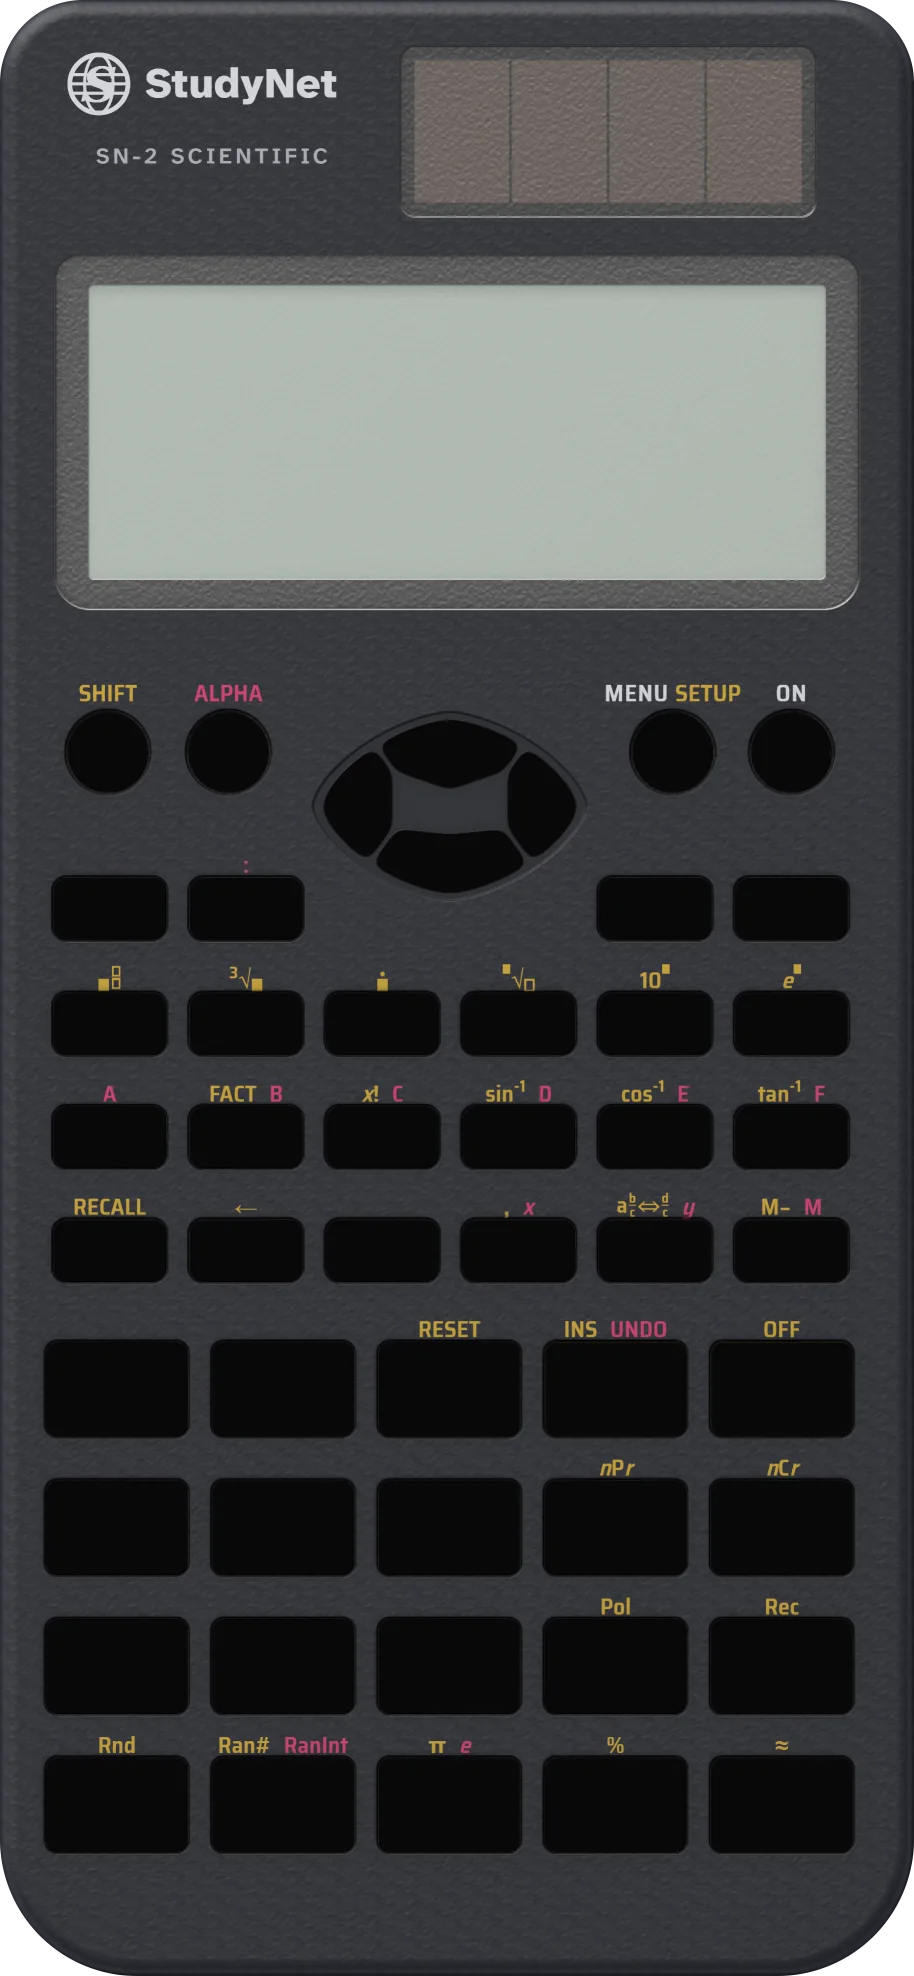
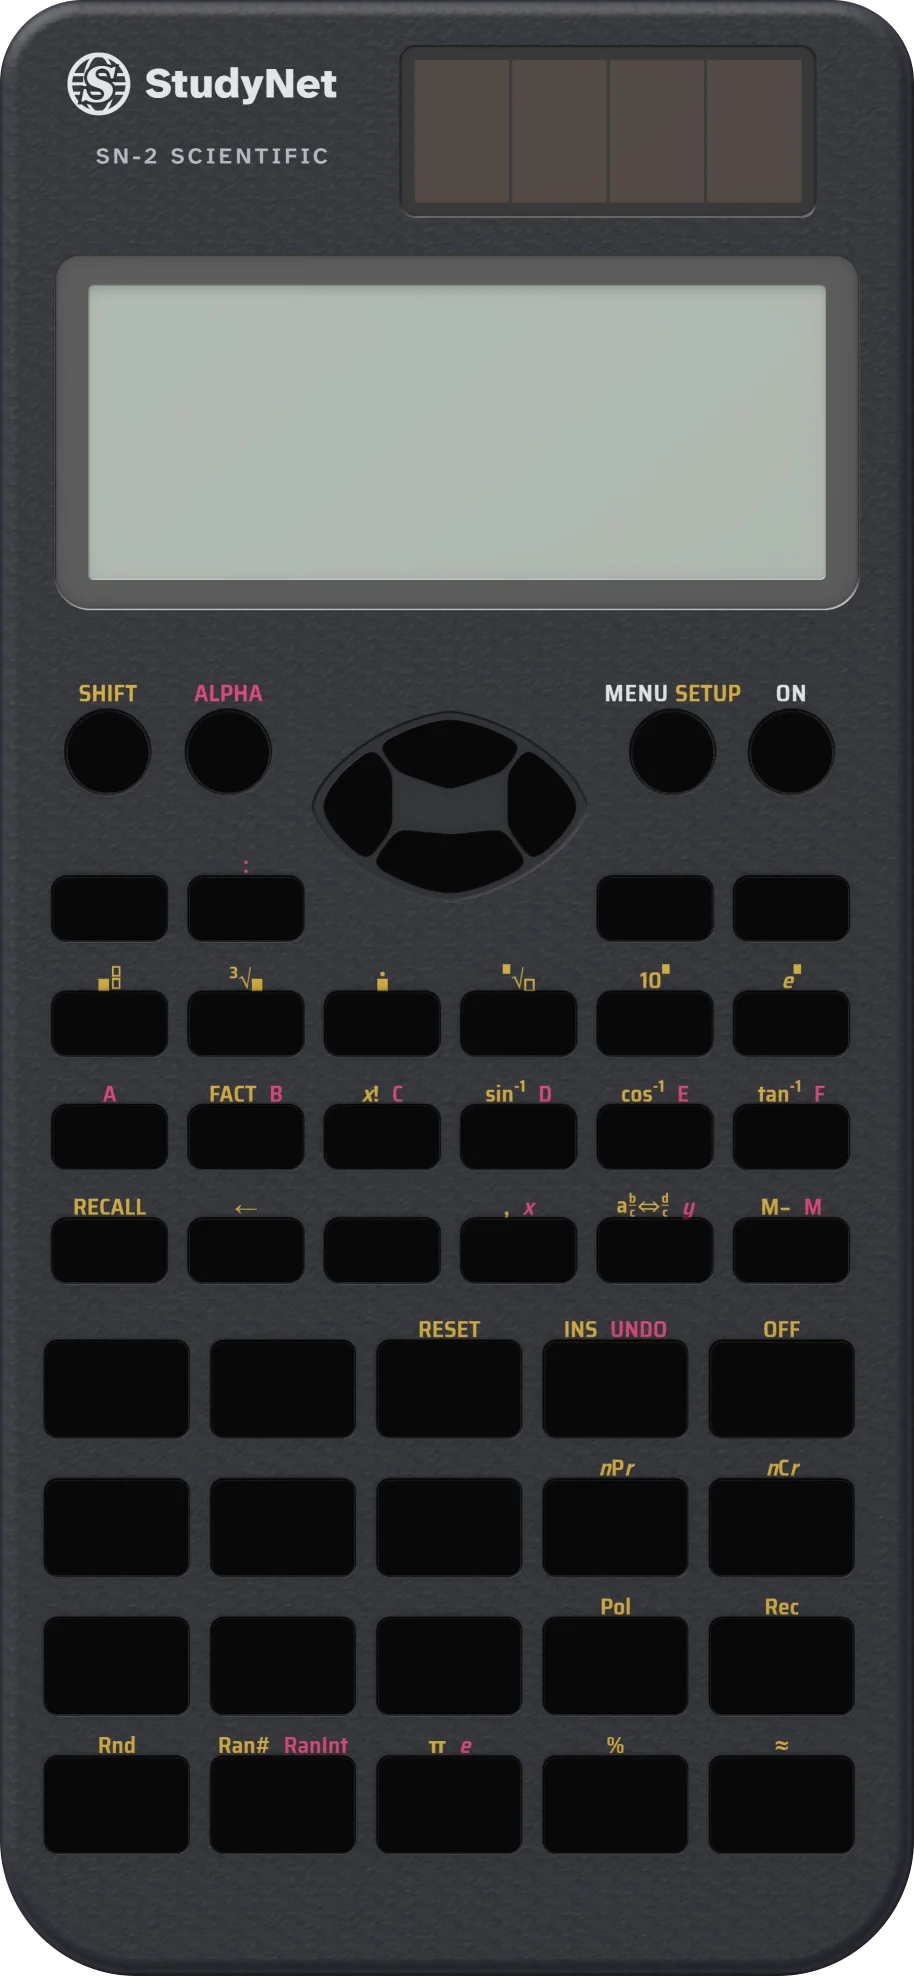
Calculator fixes: minus sign after (, ALPHA E, indicators, solar grain
- The subtraction key works as a minus sign where a number is expected:
  (-9)x(-1), -9x-1 and 2x-3 no longer give Syntax ERROR.
- ALPHA then cos gives the variable E again (Line-mode x10^n had the same
  token, so E showed and worked as x10).
- Indicators sit in their own row at the top of the LCD glass and are
  hidden on error screens.
- Re-baked: smooth solar panel and display window (texture was subtracted
  twice there), logo S outline restored.

Changed region(s): [[0.4289, 0.0309, 0.8884, 0.1235], [0.0919, 0.0309, 0.1225, 0.0617]]

diff --git a/calc.js b/calc.js
@@ -523,7 +523,7 @@ function isDigitT(t) { return t !== undefined && t.length === 1 && t >= '0' && t
 function isStatTok(t) { return t !== undefined && t.charAt(0) === '§'; }
 function startsOperand(t) {
   if (t === undefined) return false;
-  if (isDigitT(t) || t === '.' || t === 'E[' || t === 'E' || t === '(' || t === 'neg') return true;
+  if (isDigitT(t) || t === '.' || t === 'E[' || t === 'ᴇ' || t === '(' || t === 'neg') return true;
   if (FUN1[t] || (SLOTS[t] && t !== '^[' && t !== 'RD[')) return true;
   if (t === 'π' || t === 'e' || t === 'Ans' || t === 'Ran#' || VARN[t] || isStatTok(t)) return true;
   return false;
@@ -556,7 +556,7 @@ function pEst() {
   return v;
 }
 function pNeg() {
-  if (pk() === 'neg') { P.p++; var v = pNeg(), r = neg(v); return v.g ? G(r) : r; }
+  if (pk() === 'neg' || pk() === '−') { P.p++; var v = pNeg(), r = neg(v); return v.g ? G(r) : r; }
   return pLfrac();
 }
 function pLfrac() {
@@ -628,7 +628,7 @@ function pNum() {
   }
   var t2 = pk();
   if (t2 === 'E[') { P.p++; deeper(); var e = pSlot(']'); P.depth--; var ei = intOf(e); if (ei === null) merr(); v = mul(v, vten(e)); }
-  else if (t2 === 'E') {
+  else if (t2 === 'ᴇ') {
     P.p++; var sg = 1n, ds = '';
     if (pk() === 'neg' || pk() === '−') { P.p++; sg = -1n; }
     while (isDigitT(pk())) { ds += pk(); P.p++; }
@@ -649,7 +649,7 @@ function pNum() {
 function pAtom() {
   var t = pk();
   if (t === undefined) serr();
-  if (isDigitT(t) || t === '.' || t === 'E[' || t === 'E') return pNum();
+  if (isDigitT(t) || t === '.' || t === 'E[' || t === 'ᴇ') return pNum();
   P.p++;
   var a, b, c, v;
   if (t === '(') { deeper(); v = pExpr(); closeP(); return v; }
@@ -755,7 +755,7 @@ var TXT = {
   'π': '<i class="czpi">π</i>', 'e': '<i class="cze">e</i>', 'x': '<i class="czv">x</i>', 'y': '<i class="czv">y</i>',
   'sin⁻¹(': 'sin' + sup('-1') + '(', 'cos⁻¹(': 'cos' + sup('-1') + '(', 'tan⁻¹(': 'tan' + sup('-1') + '(',
   'sinh⁻¹(': 'sinh' + sup('-1') + '(', 'cosh⁻¹(': 'cosh' + sup('-1') + '(', 'tanh⁻¹(': 'tanh' + sup('-1') + '(',
-  '³√(': sup('3') + '√(', 'ˣ√(': sup('x') + '√(', 'e^(': '<i class="cze">e</i>^(', 'E': '<span class="czx10">×10</span>',
+  '³√(': sup('3') + '√(', 'ˣ√(': sup('x') + '√(', 'e^(': '<i class="cze">e</i>^(', 'ᴇ': '<span class="czx10">×10</span>',
   '⌟': '<span class="czfl"></span>', 'STO': '→', 'M+': 'M+', 'M−': 'M−', '§x̂': 'x̂', 'x̂': 'x̂', 'ŷ': 'ŷ', 'x̂₁': 'x̂<span class="czsb">1</span>', 'x̂₂': 'x̂<span class="czsb">2</span>',
   '&': '&amp;', '<': '&lt;'
 };
@@ -907,7 +907,7 @@ function tokFor(a, line) {
     case 'abs': return M ? [['A[', ']'], 1] : [['Abs('], 0];
     case 'ten': return M ? [['TEN[', ']'], 1] : [['10^('], 0];
     case 'epow': return M ? [['EXP[', ']'], 1] : [['e^('], 0];
-    case 'exp10': return M ? [['E[', ']'], 1] : [['E'], 0];
+    case 'exp10': return M ? [['E[', ']'], 1] : [['ᴇ'], 0];
     case 'recur': return M ? [['RD[', ']'], 1] : null;
   }
   var simple = {
@@ -1681,7 +1681,7 @@ function render() {
     case 'calc': body = calcBody(); break;
     case 'menu': body = menuBody(); st = ''; break;
     case 'mainmenu': body = mainMenuBody(); st = ''; break;
-    case 'error': body = linesBody([esc(S.err.m), '', '[AC]&nbsp;&nbsp;:Cancel', '[◄][►]:Goto']); break;
+    case 'error': body = linesBody([esc(S.err.m), '', '[AC]&nbsp;&nbsp;:Cancel', '[◄][►]:Goto']); st = ''; break;
     case 'recall': body = recallBody(); st = ''; break;
     case 'contrast': body = linesBody(['Contrast', '', '<span>Light</span><span class="czrt2">Dark</span>', '&nbsp;[◄]<span class="czrt2">[►]</span>']); st = ''; break;
     case 'fmtsel': body = linesBody([{ fix: 'Fix 0~9?', sci: 'Sci 0~9?', norm: 'Norm 1~2?' }[S.fmtsel]]); st = ''; break;
@@ -1911,6 +1911,7 @@ if (typeof document !== 'undefined') (function () {
     var r = render();
     scr.className = 'czscr ' + r.cls + (S.on ? '' : ' czoff') + (SET.font === 'small' ? ' czfsm' : '') + (pixOk ? ' czpixon' : '');
     scr.style.setProperty('--czink', String(0.35 + 0.065 * SET.contrast));
+    if (stc) { stc.style.setProperty('--czink', String(0.35 + 0.065 * SET.contrast)); stc.style.display = pixOk && S.on ? '' : 'none'; }
     stEl.innerHTML = r.st; mainEl.innerHTML = r.body;
     try { post(); } catch (e) { /* layout only */ }
     pixelRender();
@@ -1925,6 +1926,7 @@ if (typeof document !== 'undefined') (function () {
   pix.width = 768; pix.height = 252; curc.width = 192; curc.height = 63; pix.className = 'czpix czpix4'; curc.className = 'czpix czcurc';
   stc.width = 768; stc.height = 32; stc.className = 'czstc';
   [pix, curc, stc].forEach(function (c) { c.setAttribute('aria-hidden', 'true'); scr.appendChild(c); });
+  scr.parentNode.appendChild(stc); // the indicators have their own row at the top of the glass, above the dot matrix
   // Fonts (calc-lcd.js): "ClassWiz X Display" by Windy Deng (SIL OFL 1.1) for the text and indicators, plus StudyNet's
   // small (exponents), italic (variables) and fallback faces, all on the same 14px grid (1 font pixel = 1 LCD pixel).
   var FONTS = window.SN_LCD_FONTS, fontCss = '';
@@ -1998,6 +2000,7 @@ if (typeof document !== 'undefined') (function () {
       pctx.clearRect(0, 0, 768, 252); pctx.drawImage(img, 0, 0);
       drawIcons(icons); drawCursor();
       if (!pixOk) { pixOk = true; scr.classList.add('czpixon'); }
+      stc.style.display = S.on ? '' : 'none';
       done();
     };
     img.onerror = function () { pixOk = false; scr.classList.remove('czpixon'); done(); };

diff --git a/app.css b/app.css
@@ -713,7 +713,7 @@ html.theme-dark{--paper:#191919;--desk:#050505;--rule:#4b535a;--grid:#30363b;--p
 #calc .czglass::after{content:'';position:absolute;inset:0;pointer-events:none;border-radius:.15em;
   background:repeating-linear-gradient(0deg,rgba(0,0,0,.05) 0 .015em,transparent .015em .1em),repeating-linear-gradient(90deg,rgba(0,0,0,.05) 0 .015em,transparent .015em .1em)}
 /* ---------- LCD ---------- */
-#calc .czscr{--czink:.68;--czbg:#bac3be;position:absolute;left:.65em;top:.95em;width:19.2em;height:6.3em;overflow:hidden;
+#calc .czscr{--czink:.68;--czbg:#bac3be;position:absolute;left:.65em;top:.45em;width:19.2em;height:6.3em;overflow:hidden;
   color:rgba(16,20,14,var(--czink));font-family:'SN CW','SN LCD','Courier New',Courier,monospace;font-weight:400;font-variant-numeric:tabular-nums lining-nums;
   text-shadow:.05em .07em 0 rgba(0,0,0,.1);line-height:1;-webkit-font-smoothing:none;font-smooth:never}
 #calc .czpix{position:absolute;inset:0;width:100%;height:100%;image-rendering:pixelated;image-rendering:crisp-edges;pointer-events:none;z-index:2;
@@ -721,8 +721,7 @@ html.theme-dark{--paper:#191919;--desk:#050505;--rule:#4b535a;--grid:#30363b;--p
 #calc .czscr:not(.czpixon) .czpix{display:none}
 #calc .czpix4{image-rendering:auto}
 #calc .czcurc{animation:czblink 1.06s steps(1) infinite}
-#calc .czstc{position:absolute;left:0;top:0;width:100%;height:.8em;pointer-events:none;z-index:2;opacity:calc(var(--czink) + .12)}
-#calc .czscr:not(.czpixon) .czstc{display:none}
+#calc .czstc{position:absolute;left:.65em;top:.12em;width:19.2em;height:.8em;pointer-events:none;z-index:3;--czink:.68;opacity:calc(var(--czink) + .12)}
 #calc .czscr.czpixon .czcur::after,#calc .czscr.czpixon .czcur::before{animation:none}
 #calc .czscr.czpixon>.czstat,#calc .czscr.czpixon>.czmain{opacity:0}
 /* Pixel gaps over the lit segments, like the dot-matrix screen in the calculator's manual. */
@@ -885,17 +884,17 @@ html.theme-dark{--paper:#191919;--desk:#050505;--rule:#4b535a;--grid:#30363b;--p
   background:radial-gradient(circle at 50% 60%,#2e2f35,#202125);box-shadow:inset 0 .12em .2em rgba(0,0,0,.7),0 .05em 0 rgba(255,255,255,.08)}
 /* Baked look: calc/body.webp and calc/keys.webp (tools/bake.py) replace every texture, gradient and shadow above. */
 #calc.czbaked{filter:none}
-#calc.czbaked .czbody{background:url(calc/body.webp?v=26) 0 0/100% 100% no-repeat;box-shadow:0 .7em 1.4em rgba(0,0,0,.42),0 .15em .3em rgba(0,0,0,.3)}
+#calc.czbaked .czbody{background:url(calc/body.webp?v=27) 0 0/100% 100% no-repeat;box-shadow:0 .7em 1.4em rgba(0,0,0,.42),0 .15em .3em rgba(0,0,0,.3)}
 #calc.czbaked .czbody::before,#calc.czbaked .czbezel::before,#calc.czbaked .czpad::before{display:none}
 #calc.czbaked .czbrand,#calc.czbaked .czmodel,#calc.czbaked .czsolar,#calc.czbaked .czrlab,#calc.czbaked .czleg,#calc.czbaked .czpc{visibility:hidden}
 #calc.czbaked .czbezel,#calc.czbaked .czglass,#calc.czbaked .czpad{background:none;box-shadow:none}
 #calc.czbaked .czpad{border-radius:0;overflow:visible}
-#calc.czbaked .czk{background:url(calc/keys.webp?v=26) no-repeat;background-size:25.4em 54.9em;box-shadow:none;color:transparent}
+#calc.czbaked .czk{background:url(calc/keys.webp?v=27) no-repeat;background-size:25.4em 54.9em;box-shadow:none;color:transparent}
 #calc.czbaked .czk::after{display:none}
 #calc.czbaked .czk .czkl{visibility:hidden}
 #calc.czbaked .czk:hover{filter:brightness(1.07)}
 #calc.czbaked .czk:active,#calc.czbaked .czk.czdn{transform:translateY(.07em);filter:brightness(.8);box-shadow:none}
-#calc.czbaked .czpk{background:url(calc/keys.webp?v=26) -8.65em -19.75em/25.4em 54.9em no-repeat;transition:transform .05s,filter .05s}
+#calc.czbaked .czpk{background:url(calc/keys.webp?v=27) -8.65em -19.75em/25.4em 54.9em no-repeat;transition:transform .05s,filter .05s}
 #calc.czbaked .czpk:hover{filter:brightness(1.07)}
 #calc.czbaked .czpk:active,#calc.czbaked .czpk.czdn{transform:translateY(.06em);filter:brightness(.8)}
 @media print{#calc{display:none!important}}

diff --git a/index.html b/index.html
@@ -14,10 +14,10 @@
 <link rel="preconnect" href="https://fonts.googleapis.com">
 <link rel="preconnect" href="https://fonts.gstatic.com" crossorigin>
 <link href="https://fonts.googleapis.com/css2?family=Atkinson+Hyperlegible+Next:wght@400..700&display=swap" rel="stylesheet">
-<link rel="stylesheet" href="app.css?v=26">
-<script src="shared.js?v=26"></script>
-<script src="subject.js?v=26"></script>
-<script src="maths.js?v=26"></script>
+<link rel="stylesheet" href="app.css?v=27">
+<script src="shared.js?v=27"></script>
+<script src="subject.js?v=27"></script>
+<script src="maths.js?v=27"></script>
 </head>
 <body>
 <noscript><p style="padding:2rem">StudyNet needs JavaScript to run.</p></noscript>
@@ -103,12 +103,12 @@
   </div>
 </div>
 
-<script src="data/irish.js?v=26"></script>
-<script src="data/french.js?v=26"></script>
-<script src="data/history.js?v=26"></script>
-<script src="data/geography.js?v=26"></script>
-<script src="data/science.js?v=26"></script>
-<script src="data/maths.js?v=26"></script>
+<script src="data/irish.js?v=27"></script>
+<script src="data/french.js?v=27"></script>
+<script src="data/history.js?v=27"></script>
+<script src="data/geography.js?v=27"></script>
+<script src="data/science.js?v=27"></script>
+<script src="data/maths.js?v=27"></script>
 <script>
 (function () {
   'use strict';

diff --git a/tools/calc-bake.css b/tools/calc-bake.css
@@ -2,7 +2,7 @@
 html,body{margin:0;background:transparent}
 .bakepage{min-height:2400px}
 #calc.czbake{filter:none!important}
-#calc.czbake .czhead,#calc.czbake .czscr,#calc.czbake .czsolar,#calc.czbake .czpad{visibility:hidden}
+#calc.czbake .czhead,#calc.czbake .czscr,#calc.czbake .czsolar,#calc.czbake .czpad,#calc.czbake .czstc{visibility:hidden}
 #calc.czbake .czbody,#calc.czbake .czbezel,#calc.czbake .czglass{background:none!important;box-shadow:none!important}
 #calc.czbake .czbody::before,#calc.czbake .czbezel::after,#calc.czbake .czglass::after,#calc.czbake .czk::after{display:none}
 #calc.czbake .czk{background:none!important;box-shadow:none!important;transition:none}
@@ -11,7 +11,7 @@ html,body{margin:0;background:transparent}
 #calc.czb-inkbody .czk{visibility:hidden}
 #calc.czb-inkbody .czbrand{color:#e7e8ec;text-shadow:none}
 #calc.czb-inkbody .czmark{color:#e7e8ec;filter:none}
-#calc.czb-inkbody .czmark text{stroke:none}
+#calc.czb-inkbody .czmark text{stroke:#26272f}
 #calc.czb-inkbody .czmodel{color:#b9bbc3}
 #calc.czb-inkbody .czrlt{color:#e8e9ed;font-family:'Saira Semi Condensed',sans-serif;font-weight:600;letter-spacing:.04em}
 #calc.czb-inkbody .czsl,#calc.czb-inkbody .czal{font-family:'Saira Semi Condensed',sans-serif;font-weight:600}

diff --git a/sw.js b/sw.js
@@ -1,4 +1,4 @@
-const CACHE = 'studynet-v36';
+const CACHE = 'studynet-v37';
 const SHELL = [
   './',
   './index.html',
@@ -9,25 +9,25 @@ const SHELL = [
   './science.html',
   './maths.html',
   './about.html',
-  './app.css?v=26',
-  './shared.js?v=26',
-  './subject.js?v=26',
-  './maths.js?v=26',
-  './calc.js?v=26',
-  './calc-lcd.js?v=26',
-  './calc/body.webp?v=26',
-  './calc/keys.webp?v=26',
-  './periodic.js?v=26',
-  './exam.js?v=26',
-  './ai.js?v=26',
-  './ai-core.js?v=26',
-  './data/irish.js?v=26',
-  './data/french.js?v=26',
-  './data/history.js?v=26',
-  './data/geography.js?v=26',
-  './data/science.js?v=26',
-  './data/maths.js?v=26',
-  './data/elements.js?v=26',
+  './app.css?v=27',
+  './shared.js?v=27',
+  './subject.js?v=27',
+  './maths.js?v=27',
+  './calc.js?v=27',
+  './calc-lcd.js?v=27',
+  './calc/body.webp?v=27',
+  './calc/keys.webp?v=27',
+  './periodic.js?v=27',
+  './exam.js?v=27',
+  './ai.js?v=27',
+  './ai-core.js?v=27',
+  './data/irish.js?v=27',
+  './data/french.js?v=27',
+  './data/history.js?v=27',
+  './data/geography.js?v=27',
+  './data/science.js?v=27',
+  './data/maths.js?v=27',
+  './data/elements.js?v=27',
   './manifest.json',
   './icons/icon-192.png',
   './icons/icon-512.png',

diff --git a/science.html b/science.html
@@ -14,18 +14,18 @@
 <link rel="preconnect" href="https://fonts.googleapis.com">
 <link rel="preconnect" href="https://fonts.gstatic.com" crossorigin>
 <link href="https://fonts.googleapis.com/css2?family=Atkinson+Hyperlegible+Next:wght@400..700&display=swap" rel="stylesheet">
-<link rel="stylesheet" href="app.css?v=26">
-<script src="shared.js?v=26"></script>
-<script src="subject.js?v=26"></script>
-<script src="ai-core.js?v=26"></script>
-<script src="ai.js?v=26"></script>
-<script src="exam.js?v=26"></script>
-<script src="periodic.js?v=26"></script>
+<link rel="stylesheet" href="app.css?v=27">
+<script src="shared.js?v=27"></script>
+<script src="subject.js?v=27"></script>
+<script src="ai-core.js?v=27"></script>
+<script src="ai.js?v=27"></script>
+<script src="exam.js?v=27"></script>
+<script src="periodic.js?v=27"></script>
 </head>
 <body>
 <noscript><p style="padding:2rem">StudyNet needs JavaScript to run.</p></noscript>
-<script src="data/elements.js?v=26"></script>
-<script src="data/science.js?v=26"></script>
+<script src="data/elements.js?v=27"></script>
+<script src="data/science.js?v=27"></script>
 <script>SubjectApp.start(SN_DATA.science);</script>
 </body>
 </html>

diff --git a/maths.html b/maths.html
@@ -14,17 +14,17 @@
 <link rel="preconnect" href="https://fonts.googleapis.com">
 <link rel="preconnect" href="https://fonts.gstatic.com" crossorigin>
 <link href="https://fonts.googleapis.com/css2?family=Atkinson+Hyperlegible+Next:wght@400..700&display=swap" rel="stylesheet">
-<link rel="stylesheet" href="app.css?v=26">
-<script src="shared.js?v=26"></script>
-<script src="subject.js?v=26"></script>
-<script src="maths.js?v=26"></script>
-<script src="ai-core.js?v=26"></script>
-<script src="ai.js?v=26"></script>
-<script src="exam.js?v=26"></script>
+<link rel="stylesheet" href="app.css?v=27">
+<script src="shared.js?v=27"></script>
+<script src="subject.js?v=27"></script>
+<script src="maths.js?v=27"></script>
+<script src="ai-core.js?v=27"></script>
+<script src="ai.js?v=27"></script>
+<script src="exam.js?v=27"></script>
 </head>
 <body>
 <noscript><p style="padding:2rem">StudyNet needs JavaScript to run.</p></noscript>
-<script src="data/maths.js?v=26"></script>
+<script src="data/maths.js?v=27"></script>
 <script>SubjectApp.start(SN_DATA.maths);</script>
 </body>
 </html>

diff --git a/geography.html b/geography.html
@@ -14,16 +14,16 @@
 <link rel="preconnect" href="https://fonts.googleapis.com">
 <link rel="preconnect" href="https://fonts.gstatic.com" crossorigin>
 <link href="https://fonts.googleapis.com/css2?family=Atkinson+Hyperlegible+Next:wght@400..700&display=swap" rel="stylesheet">
-<link rel="stylesheet" href="app.css?v=26">
-<script src="shared.js?v=26"></script>
-<script src="subject.js?v=26"></script>
-<script src="ai-core.js?v=26"></script>
-<script src="ai.js?v=26"></script>
-<script src="exam.js?v=26"></script>
+<link rel="stylesheet" href="app.css?v=27">
+<script src="shared.js?v=27"></script>
+<script src="subject.js?v=27"></script>
+<script src="ai-core.js?v=27"></script>
+<script src="ai.js?v=27"></script>
+<script src="exam.js?v=27"></script>
 </head>
 <body>
 <noscript><p style="padding:2rem">StudyNet needs JavaScript to run.</p></noscript>
-<script src="data/geography.js?v=26"></script>
+<script src="data/geography.js?v=27"></script>
 <script>SubjectApp.start(SN_DATA.geography);</script>
 </body>
 </html>

diff --git a/history.html b/history.html
@@ -14,16 +14,16 @@
 <link rel="preconnect" href="https://fonts.googleapis.com">
 <link rel="preconnect" href="https://fonts.gstatic.com" crossorigin>
 <link href="https://fonts.googleapis.com/css2?family=Atkinson+Hyperlegible+Next:wght@400..700&display=swap" rel="stylesheet">
-<link rel="stylesheet" href="app.css?v=26">
-<script src="shared.js?v=26"></script>
-<script src="subject.js?v=26"></script>
-<script src="ai-core.js?v=26"></script>
-<script src="ai.js?v=26"></script>
-<script src="exam.js?v=26"></script>
+<link rel="stylesheet" href="app.css?v=27">
+<script src="shared.js?v=27"></script>
+<script src="subject.js?v=27"></script>
+<script src="ai-core.js?v=27"></script>
+<script src="ai.js?v=27"></script>
+<script src="exam.js?v=27"></script>
 </head>
 <body>
 <noscript><p style="padding:2rem">StudyNet needs JavaScript to run.</p></noscript>
-<script src="data/history.js?v=26"></script>
+<script src="data/history.js?v=27"></script>
 <script>SubjectApp.start(SN_DATA.history);</script>
 </body>
 </html>

diff --git a/french.html b/french.html
@@ -14,16 +14,16 @@
 <link rel="preconnect" href="https://fonts.googleapis.com">
 <link rel="preconnect" href="https://fonts.gstatic.com" crossorigin>
 <link href="https://fonts.googleapis.com/css2?family=Atkinson+Hyperlegible+Next:wght@400..700&display=swap" rel="stylesheet">
-<link rel="stylesheet" href="app.css?v=26">
-<script src="shared.js?v=26"></script>
-<script src="subject.js?v=26"></script>
-<script src="ai-core.js?v=26"></script>
-<script src="ai.js?v=26"></script>
-<script src="exam.js?v=26"></script>
+<link rel="stylesheet" href="app.css?v=27">
+<script src="shared.js?v=27"></script>
+<script src="subject.js?v=27"></script>
+<script src="ai-core.js?v=27"></script>
+<script src="ai.js?v=27"></script>
+<script src="exam.js?v=27"></script>
 </head>
 <body>
 <noscript><p style="padding:2rem">StudyNet needs JavaScript to run.</p></noscript>
-<script src="data/french.js?v=26"></script>
+<script src="data/french.js?v=27"></script>
 <script>SubjectApp.start(SN_DATA.french);</script>
 </body>
 </html>

diff --git a/irish.html b/irish.html
@@ -14,16 +14,16 @@
 <link rel="preconnect" href="https://fonts.googleapis.com">
 <link rel="preconnect" href="https://fonts.gstatic.com" crossorigin>
 <link href="https://fonts.googleapis.com/css2?family=Atkinson+Hyperlegible+Next:wght@400..700&display=swap" rel="stylesheet">
-<link rel="stylesheet" href="app.css?v=26">
-<script src="shared.js?v=26"></script>
-<script src="subject.js?v=26"></script>
-<script src="ai-core.js?v=26"></script>
-<script src="ai.js?v=26"></script>
-<script src="exam.js?v=26"></script>
+<link rel="stylesheet" href="app.css?v=27">
+<script src="shared.js?v=27"></script>
+<script src="subject.js?v=27"></script>
+<script src="ai-core.js?v=27"></script>
+<script src="ai.js?v=27"></script>
+<script src="exam.js?v=27"></script>
 </head>
 <body>
 <noscript><p style="padding:2rem">StudyNet needs JavaScript to run.</p></noscript>
-<script src="data/irish.js?v=26"></script>
+<script src="data/irish.js?v=27"></script>
 <script>SubjectApp.start(SN_DATA.irish);</script>
 </body>
 </html>

diff --git a/about.html b/about.html
@@ -14,8 +14,8 @@
 <link rel="preconnect" href="https://fonts.googleapis.com">
 <link rel="preconnect" href="https://fonts.gstatic.com" crossorigin>
 <link href="https://fonts.googleapis.com/css2?family=Atkinson+Hyperlegible+Next:wght@400..700&display=swap" rel="stylesheet">
-<link rel="stylesheet" href="app.css?v=26">
-<script src="shared.js?v=26"></script>
+<link rel="stylesheet" href="app.css?v=27">
+<script src="shared.js?v=27"></script>
 </head>
 <body>
 <noscript><p style="padding:2rem">StudyNet needs JavaScript to run.</p></noscript>
